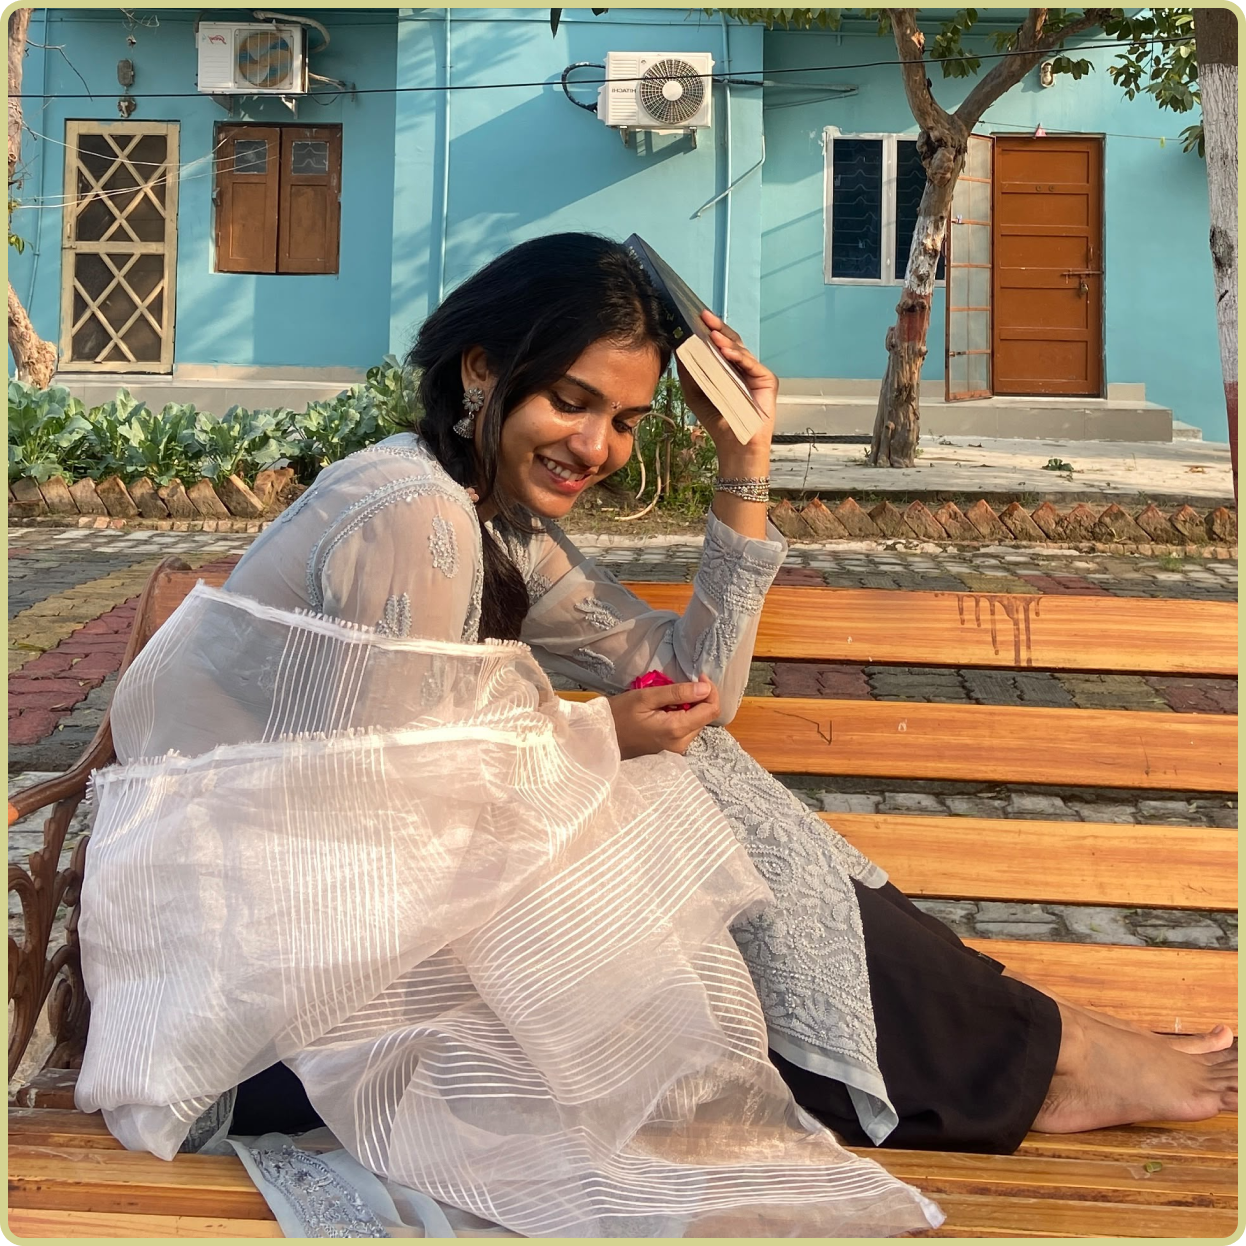
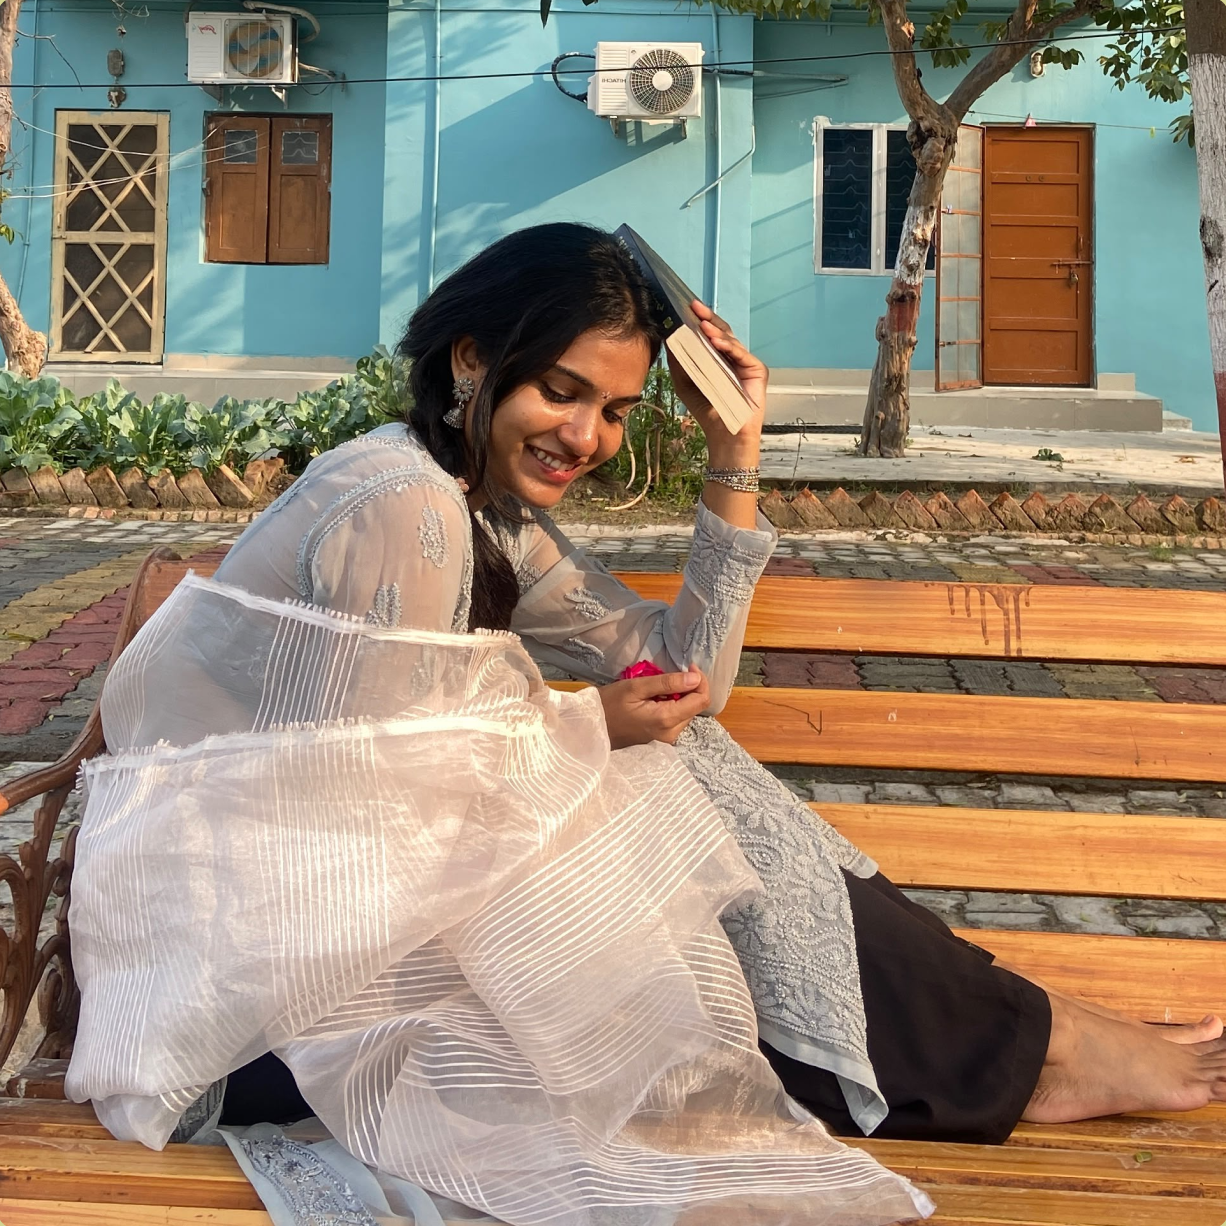
feat: full-bleed hero on small/medium screens, Our Story polish, rounded cards

diff --git a/app/components/OurStory/AboutCurator.jsx b/app/components/OurStory/AboutCurator.jsx
@@ -16,7 +16,7 @@ const css = `
   max-width: 1700px;
   margin: 0 auto;
 
-  padding-block: clamp(10px, 5vw, 56px);
+  padding-block: clamp(6px, 2.5vw, 28px);
   padding-inline: clamp(20px, 5vw, 40px);
 
   display: flex;
@@ -33,8 +33,8 @@ const css = `
   max-width: 62%;
   overflow: hidden;
 
-  border: 6px solid #f4ecd8;
-  border-radius: 4px;
+  border: 5px solid #d4d391;
+  border-radius: 12px;
   box-sizing: border-box;
 }
 
@@ -99,16 +99,19 @@ const css = `
 }
 
 .about-curator__sign-image {
-  height: clamp(44px, 5vw, 60px);
+  height: clamp(62px, 7vw, 84px);
   width: auto;
   display: block;
 }
 
-.about-curator__sign-accent {
-  width: clamp(64px, 8vw, 96px);
+.about-curator__line {
+  display: block;
+  width: 26%;
+  max-width: 220px;
   height: auto;
-  color: #c23b7a;
-  transform: translateY(4px);
+  margin-top: 5px;
+  margin-left: 18%;
+  border-radius: 0;
 }
 
 /* =========================================================
@@ -141,6 +144,7 @@ const css = `
     flex: 1 1 auto;
     max-width: 100%;
     width: 100%;
+    border: none;
   }
 
   .about-curator__image {
@@ -165,11 +169,12 @@ const css = `
   }
 
   .about-curator__sign-image {
-    height: 36px;
+    height: 52px;
   }
 
-  .about-curator__sign-accent {
-    width: 56px;
+  .about-curator__line {
+    width: 30%;
+    max-width: 130px;
   }
 }
 `;
@@ -208,8 +213,8 @@ export function AboutCurator({
   paragraphs = [],
   signature,
   signatureAlt = "Signature",
-  signatureAccent,
-}) {
+  lineImage,
+}) { 
   return (
     <section className="about-curator" aria-label="About the curator">
       <style>{css}</style>
@@ -227,22 +232,21 @@ export function AboutCurator({
           ))}
         </div>
 
+        {lineImage && (
+          <img
+            className="about-curator__line"
+            src={lineImage}
+            alt=""
+            aria-hidden="true"
+          />
+        )}
+
         <div className="about-curator__sign">
           <img
             className="about-curator__sign-image"
             src={signature}
             alt={signatureAlt}
           />
-          {signatureAccent ? (
-            <img
-              className="about-curator__sign-accent"
-              src={signatureAccent}
-              alt=""
-              aria-hidden="true"
-            />
-          ) : (
-            <DefaultSignatureAccent />
-          )}
         </div>
       </div>
     </section>

diff --git a/app/components/Home/Hero.jsx b/app/components/Home/Hero.jsx
@@ -13,18 +13,10 @@ const MAX_HEIGHT = `calc(100dvh - ${GAP_Y} * 2)`;
 export function Hero({image, video, imageAlt = '', eyebrow, heading, cta}) {
   return (
     <section
-      className="hero"
-      style={{
-        padding: `${GAP_Y} ${GAP_X}`,
-        margin: 0,
-        boxSizing: 'border-box',
-        width: '100%',
-      }}
+      className="hero -mx-4 w-[calc(100%+2rem)] py-0! lg:mx-0 lg:w-full lg:py-4!"
+      style={{boxSizing: 'border-box'}}
     >
-      <div
-        className="relative w-full overflow-hidden"
-        style={{borderRadius: 16}}
-      >
+      <div className="relative w-full overflow-hidden rounded-none lg:rounded-2xl">
         {video ? (
           <video
             src={video}
@@ -35,11 +27,10 @@ export function Hero({image, video, imageAlt = '', eyebrow, heading, cta}) {
             muted
             playsInline
             preload="auto"
-            className="h-[calc(100dvh-32px)] md:h-auto"
+            className="h-lvh lg:h-auto lg:max-h-[calc(100dvh-32px)]"
             style={{
               display: 'block',
               width: '100%',
-              maxHeight: MAX_HEIGHT,
               minHeight: `min(520px, ${MAX_HEIGHT})`, // only kicks in on narrow phones
               objectFit: 'cover',
               borderRadius: 0,
@@ -50,11 +41,10 @@ export function Hero({image, video, imageAlt = '', eyebrow, heading, cta}) {
           <img
             src={image}
             alt={imageAlt}
-            className="h-[calc(100dvh-32px)] md:h-auto"
+            className="h-lvh lg:h-auto lg:max-h-[calc(100dvh-32px)]"
             style={{
               display: 'block',
               width: '100%',
-              maxHeight: MAX_HEIGHT,
               minHeight: `min(520px, ${MAX_HEIGHT})`, // only kicks in on narrow phones
               objectFit: 'cover',
               borderRadius: 0,

diff --git a/app/components/Header.jsx b/app/components/Header.jsx
@@ -118,8 +118,6 @@ export function Header({header, cart, isLoggedIn}) {
     ? {
         position: 'absolute',
         top: `calc(${GAP_Y})`,
-        left: '16px',
-        right: '16px',
         zIndex: 30,
         background: 'transparent',
         color: '#fff',
@@ -139,7 +137,10 @@ export function Header({header, cart, isLoggedIn}) {
 
   return (
     <>
-      <header style={wrapperStyle}>
+      <header
+        className={isHome ? 'left-0 right-0 md:left-4 md:right-4' : undefined}
+        style={wrapperStyle}
+      >
         {/* Mobile / tablet menu (sits under the nav row so the icon stays on top) */}
         <MobileMenu
           open={menuOpen}

diff --git a/app/routes/our-story/route.jsx b/app/routes/our-story/route.jsx
@@ -13,6 +13,7 @@ import ourStoryQuoteImage from "~/assets/OurStory/OurStoryQuote.png";
 
 import aboutCuratorImage from "~/assets/OurStory/AboutCurator.png";
 import aboutCuratorSignature from "~/assets/OurStory/AboutCuratorSignature.png";
+import aboutCuratorLine from "~/assets/OurStory/OurStoryLine.png";
 
 
 /**
@@ -58,11 +59,12 @@ const ABOUT_CURATOR_DATA = {
   ],
   signature: aboutCuratorSignature,
   signatureAlt: "Anika's signature",
+  lineImage: aboutCuratorLine,
 };
 
 export default function PreviewOurStory() {
   return (
-    <main>
+    <main className="our-story-page">
       {/* Our Story Hero */}
       <OurStoryHero {...OUR_STORY_HERO_DATA} />
 

diff --git a/app/components/OurStory/OurStoryHero.jsx b/app/components/OurStory/OurStoryHero.jsx
@@ -24,6 +24,8 @@ const css = `
   display: grid;
   grid-template-columns: minmax(0, 1fr);
   width: 100%;
+  border-radius: 16px;
+  overflow: hidden;
 }
 
 /* =========================================================
@@ -89,6 +91,7 @@ const css = `
   height: 100%;
 
   max-width: none;
+  border-radius: 0;
 
   object-fit: cover;
   object-position: center center;

diff --git a/app/components/OurStory/OurStoryQuote.jsx b/app/components/OurStory/OurStoryQuote.jsx
@@ -10,7 +10,8 @@ const css = `
 
 .our-story-quote {
   position: relative;
-  width: 100%;
+  width: calc(100% + 32px);
+  margin-inline: -16px;
   overflow: hidden;
   font-family: ${FONT};
 

diff --git a/app/components/OurStory/AboutNimie.jsx b/app/components/OurStory/AboutNimie.jsx
@@ -9,7 +9,7 @@ const css = `
   font-family: ${FONT};
   background: #2F5723;
   color: #ffffff;
-  border-radius: 4px;
+  border-radius: 16px;
 
   overflow: hidden;
 }
